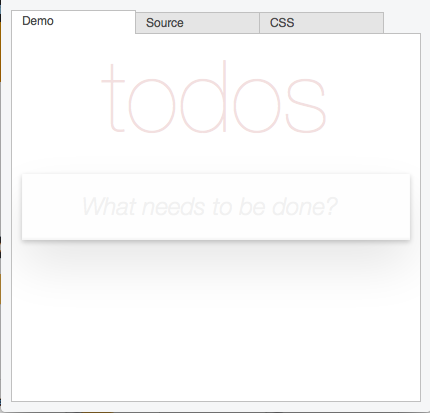
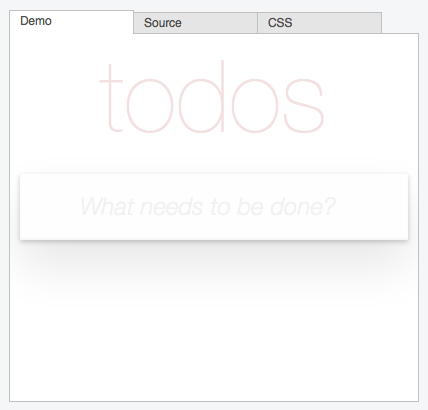
autocommit docs

diff --git a/examples/menus/bundle.js b/examples/menus/bundle.js
@@ -1,5 +1,5 @@
 (function e(t,n,r){function s(o,u){if(!n[o]){if(!t[o]){var a=typeof require=="function"&&require;if(!u&&a)return a(o,!0);if(i)return i(o,!0);var f=new Error("Cannot find module '"+o+"'");throw f.code="MODULE_NOT_FOUND",f}var l=n[o]={exports:{}};t[o][0].call(l.exports,function(e){var n=t[o][1][e];return s(n?n:e)},l,l.exports,e,t,n,r)}return n[o].exports}var i=typeof require=="function"&&require;for(var o=0;o<r.length;o++)s(r[o]);return s})({1:[function(require,module,exports){
-var css = "/*-----------------------------------------------------------------------------\n| Copyright (c) 2014-2015, PhosphorJS Contributors\n|\n| Distributed under the terms of the BSD 3-Clause License.\n|\n| The full license is in the file LICENSE, distributed with this software.\n|----------------------------------------------------------------------------*/\nbody {\n  font-family: sans-serif;\n  margin: 0;\n  padding: 0;\n}\n#main {\n  position: absolute;\n  top: 35px;\n  left: 10px;\n  right: 10px;\n  bottom: 10px;\n}\n.ContextArea {\n  padding-left: 10px;\n}\n.p-TabBar {\n  min-height: 24px;\n}\n.p-TabBar-content {\n  bottom: 1px;\n  align-items: flex-end;\n}\n.p-TabBar-content > .p-Tab {\n  flex-basis: 125px;\n  max-height: 21px;\n  margin-left: -1px;\n  border: 1px solid #C0C0C0;\n  border-bottom: none;\n  padding: 0px 10px;\n  background: #E5E5E5;\n  font: 12px Helvetica, Arial, sans-serif;\n}\n.p-TabBar-content > .p-Tab.p-mod-first {\n  margin-left: 0;\n}\n.p-TabBar-content > .p-Tab.p-mod-selected {\n  min-height: 24px;\n  background: white;\n  transform: translateY(1px);\n}\n.p-TabBar-content > .p-Tab:hover:not(.p-mod-selected) {\n  background: #F0F0F0;\n}\n.p-TabBar-content > .p-Tab > span {\n  line-height: 21px;\n}\n.p-TabBar-footer {\n  display: block;\n  height: 1px;\n  background: #C0C0C0;\n}\n.p-TabPanel > .p-StackedPanel {\n  background: white;\n  border: 1px solid #C0C0C0;\n  border-top: none;\n}\n.p-Menu {\n  background: white;\n  color: rgba(0, 0, 0, 0.87);\n  border: 1px solid #C0C0C0;\n  font: 12px Helvetica, Arial, sans-serif;\n  box-shadow: 0px 1px 6px rgba(0, 0, 0, 0.2);\n}\n.p-Menu-item.p-mod-active {\n  background: #E5E5E5;\n}\n.p-Menu-item.p-mod-disabled {\n  color: rgba(0, 0, 0, 0.26);\n}\n.p-Menu-item.p-mod-separator-type > span::after {\n  border-top: 1px solid #DDDDDD;\n}\n.p-Menu-item-icon::before,\n.p-Menu-item-submenu-icon::before {\n  font-family: FontAwesome;\n}\n.p-Menu-item.p-mod-check-type.p-mod-checked > .p-Menu-item-icon::before {\n  content: '\\f00c';\n}\n.p-Menu-item.p-mod-has-submenu > .p-Menu-item-submenu-icon::before {\n  content: '\\f0da';\n}\n.p-Menu-item.copy > .p-Menu-item-icon::before {\n  content: '\\f0c5';\n}\n.p-Menu-item.cut > .p-Menu-item-icon::before {\n  content: '\\f0c4';\n}\n.p-Menu-item.paste > .p-Menu-item-icon::before {\n  content: '\\f0ea';\n}\n.p-Menu-item.close > .p-Menu-item-icon::before {\n  content: '\\f00d';\n}\n.p-Menu-item.undo > .p-Menu-item-icon::before {\n  content: '\\f0e2';\n}\n.p-Menu-item.repeat > .p-Menu-item-icon::before {\n  content: '\\f01e';\n}\n.p-MenuBar {\n  min-height: 24px;\n  padding-left: 5px;\n  background: #FEFEFE;\n  color: rgba(0, 0, 0, 0.87);\n  border-bottom: 1px solid #DDDDDD;\n  font: 13px Helvetica, Arial, sans-serif;\n}\n.p-MenuBar-menu {\n  transform: translateY(-1px);\n}\n.p-MenuBar-item {\n  padding: 4px 8px;\n  border-left: 1px solid transparent;\n  border-right: 1px solid transparent;\n}\n.p-MenuBar-item.p-mod-active {\n  background: #E5E5E5;\n}\n.p-MenuBar-item.p-mod-disabled {\n  color: rgba(0, 0, 0, 0.26);\n}\n.p-MenuBar-item.p-mod-separator-type {\n  margin: 2px;\n  padding: 0;\n  border: none;\n  border-left: 1px solid #DDDDDD;\n}\n.p-MenuBar.p-mod-active > .p-MenuBar-content > .p-MenuBar-item.p-mod-active {\n  z-index: 1000000;\n  background: white;\n  border-left: 1px solid #C0C0C0;\n  border-right: 1px solid #C0C0C0;\n  box-shadow: 0px 0px 6px rgba(0, 0, 0, 0.2);\n}\n"; (require("browserify-css").createStyle(css, { "href": "menus/index.css"})); module.exports = css;
+var css = "/*-----------------------------------------------------------------------------\n| Copyright (c) 2014-2015, PhosphorJS Contributors\n|\n| Distributed under the terms of the BSD 3-Clause License.\n|\n| The full license is in the file LICENSE, distributed with this software.\n|----------------------------------------------------------------------------*/\nbody {\n  font-family: sans-serif;\n  margin: 0;\n  padding: 0;\n  background: #F5F6F7;\n}\n#main {\n  position: absolute;\n  top: 35px;\n  left: 10px;\n  right: 10px;\n  bottom: 10px;\n}\n.ContextArea {\n  padding-left: 10px;\n}\n.p-TabBar {\n  min-height: 24px;\n}\n.p-TabBar-content {\n  bottom: 1px;\n  align-items: flex-end;\n}\n.p-TabBar-content > .p-Tab {\n  flex-basis: 125px;\n  max-height: 21px;\n  margin-left: -1px;\n  border: 1px solid #C0C0C0;\n  border-bottom: none;\n  padding: 0px 10px;\n  background: #E5E5E5;\n  font: 12px Helvetica, Arial, sans-serif;\n}\n.p-TabBar-content > .p-Tab.p-mod-first {\n  margin-left: 0;\n}\n.p-TabBar-content > .p-Tab.p-mod-selected {\n  min-height: 24px;\n  background: white;\n  transform: translateY(1px);\n}\n.p-TabBar-content > .p-Tab:hover:not(.p-mod-selected) {\n  background: #F0F0F0;\n}\n.p-TabBar-content > .p-Tab > span {\n  line-height: 21px;\n}\n.p-TabBar-footer {\n  display: block;\n  height: 1px;\n  background: #C0C0C0;\n}\n.p-TabPanel > .p-StackedPanel {\n  background: white;\n  border: 1px solid #C0C0C0;\n  border-top: none;\n}\n.p-Menu {\n  background: white;\n  color: rgba(0, 0, 0, 0.87);\n  border: 1px solid #C0C0C0;\n  font: 12px Helvetica, Arial, sans-serif;\n  box-shadow: 0px 1px 6px rgba(0, 0, 0, 0.2);\n}\n.p-Menu-item.p-mod-active {\n  background: #E5E5E5;\n}\n.p-Menu-item.p-mod-disabled {\n  color: rgba(0, 0, 0, 0.26);\n}\n.p-Menu-item.p-mod-separator-type > span::after {\n  border-top: 1px solid #DDDDDD;\n}\n.p-Menu-item-icon::before,\n.p-Menu-item-submenu-icon::before {\n  font-family: FontAwesome;\n}\n.p-Menu-item.p-mod-check-type.p-mod-checked > .p-Menu-item-icon::before {\n  content: '\\f00c';\n}\n.p-Menu-item.p-mod-has-submenu > .p-Menu-item-submenu-icon::before {\n  content: '\\f0da';\n}\n.p-Menu-item.copy > .p-Menu-item-icon::before {\n  content: '\\f0c5';\n}\n.p-Menu-item.cut > .p-Menu-item-icon::before {\n  content: '\\f0c4';\n}\n.p-Menu-item.paste > .p-Menu-item-icon::before {\n  content: '\\f0ea';\n}\n.p-Menu-item.close > .p-Menu-item-icon::before {\n  content: '\\f00d';\n}\n.p-Menu-item.undo > .p-Menu-item-icon::before {\n  content: '\\f0e2';\n}\n.p-Menu-item.repeat > .p-Menu-item-icon::before {\n  content: '\\f01e';\n}\n.p-MenuBar {\n  min-height: 24px;\n  padding-left: 5px;\n  background: #FEFEFE;\n  color: rgba(0, 0, 0, 0.87);\n  border-bottom: 1px solid #DDDDDD;\n  font: 13px Helvetica, Arial, sans-serif;\n}\n.p-MenuBar-menu {\n  transform: translateY(-1px);\n}\n.p-MenuBar-item {\n  padding: 4px 8px;\n  border-left: 1px solid transparent;\n  border-right: 1px solid transparent;\n}\n.p-MenuBar-item.p-mod-active {\n  background: #E5E5E5;\n}\n.p-MenuBar-item.p-mod-disabled {\n  color: rgba(0, 0, 0, 0.26);\n}\n.p-MenuBar-item.p-mod-separator-type {\n  margin: 2px;\n  padding: 0;\n  border: none;\n  border-left: 1px solid #DDDDDD;\n}\n.p-MenuBar.p-mod-active > .p-MenuBar-content > .p-MenuBar-item.p-mod-active {\n  z-index: 1000000;\n  background: white;\n  border-left: 1px solid #C0C0C0;\n  border-right: 1px solid #C0C0C0;\n  box-shadow: 0px 0px 6px rgba(0, 0, 0, 0.2);\n}\n"; (require("browserify-css").createStyle(css, { "href": "menus/index.css"})); module.exports = css;
 },{"browserify-css":3}],2:[function(require,module,exports){
 /*-----------------------------------------------------------------------------
 | Copyright (c) 2014-2015, PhosphorJS Contributors

diff --git a/examples/tabs/bundle.js b/examples/tabs/bundle.js
@@ -6460,7 +6460,7 @@ function sendToShown(array, msg) {
 }
 
 },{"./index.css":21,"phosphor-arrays":2,"phosphor-domutil":8,"phosphor-messaging":9,"phosphor-nodewrapper":10,"phosphor-properties":11,"phosphor-signaling":13}],23:[function(require,module,exports){
-var css = "/*-----------------------------------------------------------------------------\n| Copyright (c) 2014-2015, PhosphorJS Contributors\n|\n| Distributed under the terms of the BSD 3-Clause License.\n|\n| The full license is in the file LICENSE, distributed with this software.\n|----------------------------------------------------------------------------*/\nbody {\n  margin: 0;\n  padding: 0;\n}\n#main {\n  position: absolute;\n  top: 10px;\n  left: 10px;\n  right: 10px;\n  bottom: 10px;\n}\n.p-TabBar {\n  min-height: 24px;\n}\n.p-TabBar-content {\n  bottom: 1px;\n  align-items: flex-end;\n}\n.p-TabBar-content > .p-Tab {\n  flex-basis: 125px;\n  max-height: 21px;\n  margin-left: -1px;\n  border: 1px solid #C0C0C0;\n  border-bottom: none;\n  padding: 0px 10px;\n  background: #E5E5E5;\n  font: 12px Helvetica, Arial, sans-serif;\n}\n.p-TabBar-content > .p-Tab.p-mod-first {\n  margin-left: 0;\n}\n.p-TabBar-content > .p-Tab.p-mod-selected {\n  min-height: 24px;\n  background: white;\n  transform: translateY(1px);\n}\n.p-TabBar-content > .p-Tab:hover:not(.p-mod-selected) {\n  background: #F0F0F0;\n}\n.p-TabBar-content > .p-Tab > span {\n  line-height: 21px;\n}\n.p-TabBar-footer {\n  display: block;\n  height: 1px;\n  background: #C0C0C0;\n}\n.p-TabPanel > .p-StackedPanel {\n  padding: 10px;\n  background: white;\n  border: 1px solid #C0C0C0;\n  border-top: none;\n}\n.p-Tab.p-mod-closable > .p-Tab-close-icon {\n  margin-left: 4px;\n}\n.p-Tab.p-mod-closable > .p-Tab-close-icon:before {\n  content: '\\f00d';\n  font-family: FontAwesome;\n}\n.CodeMirrorWidget {\n  border: 1px solid #C0C0C0;\n}\n.content {\n  border: 1px solid black;\n}\n.red {\n  background: #E74C3C;\n}\n.yellow {\n  background: #F1C40F;\n}\n.green {\n  background: #27AE60;\n}\n.blue {\n  background: #3498DB;\n}\n"; (require("browserify-css").createStyle(css, { "href": "tabs/index.css"})); module.exports = css;
+var css = "/*-----------------------------------------------------------------------------\n| Copyright (c) 2014-2015, PhosphorJS Contributors\n|\n| Distributed under the terms of the BSD 3-Clause License.\n|\n| The full license is in the file LICENSE, distributed with this software.\n|----------------------------------------------------------------------------*/\nbody {\n  margin: 0;\n  padding: 0;\n  background: #F5F6F7;\n}\n#main {\n  position: absolute;\n  top: 10px;\n  left: 10px;\n  right: 10px;\n  bottom: 10px;\n}\n.p-TabBar {\n  min-height: 24px;\n}\n.p-TabBar-content {\n  bottom: 1px;\n  align-items: flex-end;\n}\n.p-TabBar-content > .p-Tab {\n  flex-basis: 125px;\n  max-height: 21px;\n  margin-left: -1px;\n  border: 1px solid #C0C0C0;\n  border-bottom: none;\n  padding: 0px 10px;\n  background: #E5E5E5;\n  font: 12px Helvetica, Arial, sans-serif;\n}\n.p-TabBar-content > .p-Tab.p-mod-first {\n  margin-left: 0;\n}\n.p-TabBar-content > .p-Tab.p-mod-selected {\n  min-height: 24px;\n  background: white;\n  transform: translateY(1px);\n}\n.p-TabBar-content > .p-Tab:hover:not(.p-mod-selected) {\n  background: #F0F0F0;\n}\n.p-TabBar-content > .p-Tab > span {\n  line-height: 21px;\n}\n.p-TabBar-footer {\n  display: block;\n  height: 1px;\n  background: #C0C0C0;\n}\n.p-TabPanel > .p-StackedPanel {\n  padding: 10px;\n  background: white;\n  border: 1px solid #C0C0C0;\n  border-top: none;\n}\n.p-Tab.p-mod-closable > .p-Tab-close-icon {\n  margin-left: 4px;\n}\n.p-Tab.p-mod-closable > .p-Tab-close-icon:before {\n  content: '\\f00d';\n  font-family: FontAwesome;\n}\n.CodeMirrorWidget {\n  border: 1px solid #C0C0C0;\n}\n.content {\n  border: 1px solid black;\n}\n.red {\n  background: #E74C3C;\n}\n.yellow {\n  background: #F1C40F;\n}\n.green {\n  background: #27AE60;\n}\n.blue {\n  background: #3498DB;\n}\n"; (require("browserify-css").createStyle(css, { "href": "tabs/index.css"})); module.exports = css;
 },{"browserify-css":1}],24:[function(require,module,exports){
 /*-----------------------------------------------------------------------------
 | Copyright (c) 2014-2015, PhosphorJS Contributors

diff --git a/examples/menus/index.css b/examples/menus/index.css
@@ -9,6 +9,7 @@ body {
   font-family: sans-serif;
   margin: 0;
   padding: 0;
+  background: #F5F6F7;
 }
 
 

diff --git a/examples/tabs/index.css b/examples/tabs/index.css
@@ -8,6 +8,7 @@
 body {
   margin: 0;
   padding: 0;
+  background: #F5F6F7;
 }
 
 
